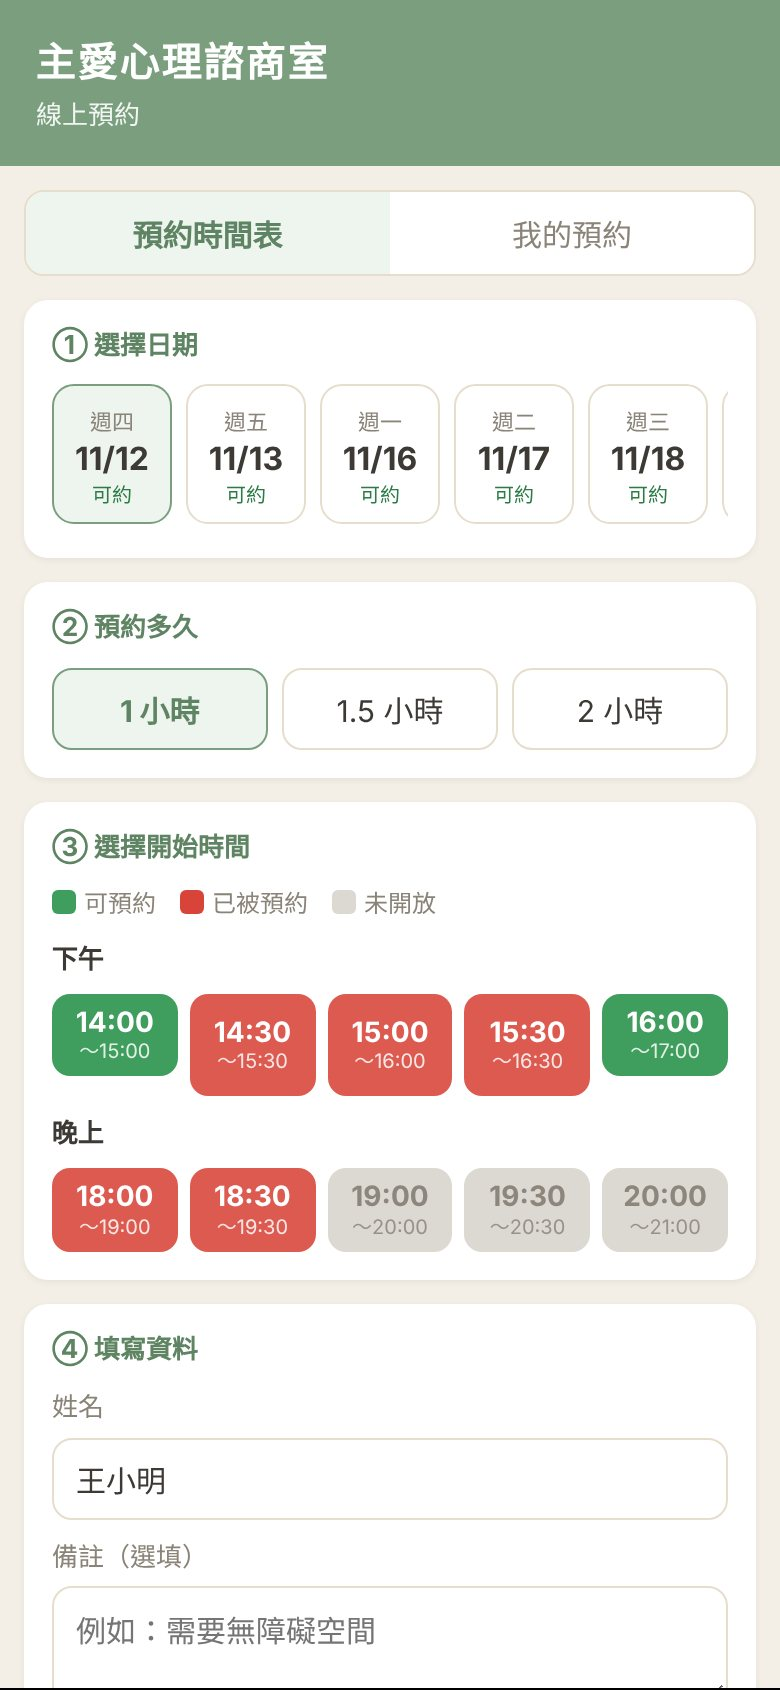
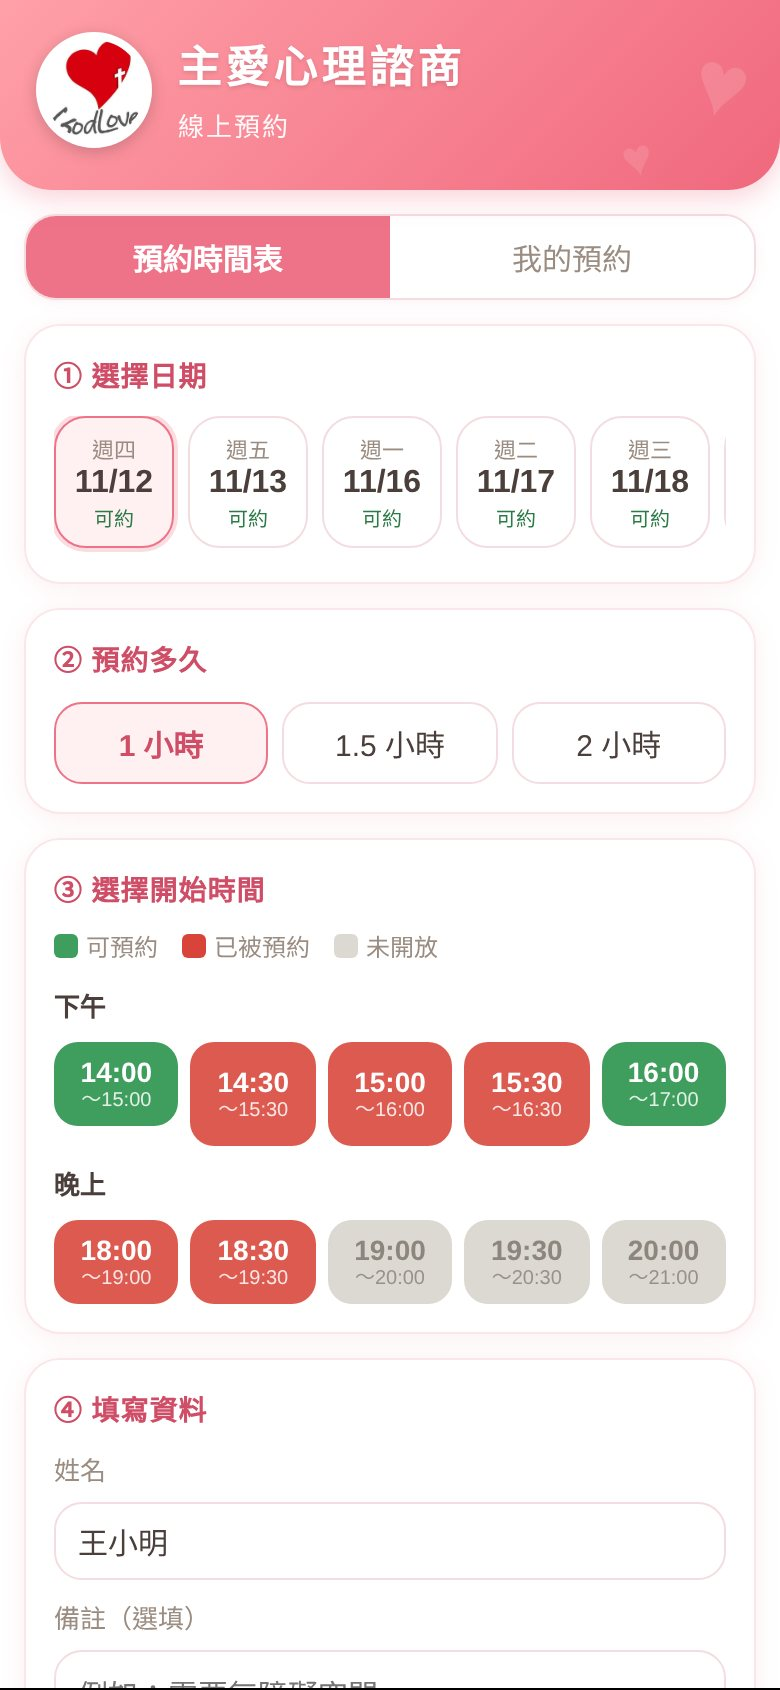
橫幅改粉桃紅、底色改白色，教學頁與截圖同步
Claude-Session: https://claude.ai/code/session_01TfDhadm69ti5PKJZoMiYxY

diff --git a/booking/index.html b/booking/index.html
@@ -202,7 +202,7 @@ label{display:block;font-size:13px;color:var(--mute);margin:10px 0 4px}
 .sheetbox{background:#fff;width:100%;max-width:480px;border-radius:16px 16px 0 0;padding:18px 16px 24px;box-shadow:0 -4px 20px rgba(0,0,0,.15)}
 .sheetbox h3{margin:0 0 4px}.sheetbox .opts{display:grid;grid-template-columns:1fr 1fr;gap:8px;margin:12px 0}
 .sheetbox .opts button{padding:12px 6px;border-radius:10px;border:2px solid var(--line);background:#fff;font-size:15px;font-weight:700}
-.sheetbox .opts button.on{border-color:var(--main);background:#eef5ef}
+.sheetbox .opts button.on{border-color:var(--main);background:#fff0f2}
 .sheetbox label.rd{display:flex;align-items:center;gap:8px;padding:6px 0;font-size:14px}
 .stats{display:grid;grid-template-columns:repeat(5,1fr);gap:6px;margin-bottom:12px}
 .stats div{background:#fff;border-radius:10px;padding:8px 4px;text-align:center;font-size:11px;color:var(--mute)}
@@ -221,25 +221,25 @@ header.top2 p{margin:3px 0 0;font-size:13px;opacity:.9}
 
 
 /* ===== 美化：粉圓字體、柔和暖色、診所 LOGO ===== */
-:root{--bg:#fdf6ec;--ink:#4a3f3a;--mute:#9a8c80;--line:#f0e2d0;--main:#6fa882;--main-d:#4a8560;--soft:#eaf5ec;--warn:#e0604f;--gold:#e8a93b;--heart:#e5584a}
-body{font-family:"Huninn","jf-openhuninn","PingFang TC","Noto Sans TC","Microsoft JhengHei",sans-serif;line-height:1.6;background:var(--bg) radial-gradient(circle at 12% 8%,rgba(255,226,214,.55),transparent 38%),radial-gradient(circle at 92% 30%,rgba(214,238,222,.6),transparent 34%) fixed}
+:root{--bg:#fff;--card:#fff;--ink:#4a3f3a;--mute:#9a8c80;--line:#f4dde0;--main:#ee7388;--main-d:#cf4d66;--soft:#fff0f2;--warn:#e0604f;--gold:#e8a93b;--heart:#e5584a}
+body{font-family:"Huninn","jf-openhuninn","PingFang TC","Noto Sans TC","Microsoft JhengHei",sans-serif;line-height:1.6}
 b,strong,h1,h2,h3,button,th{font-synthesis:weight}
-header.top2{display:flex;align-items:center;gap:13px;background:linear-gradient(135deg,#86bb97 0%,#5f9f78 100%);padding:calc(16px + env(safe-area-inset-top)) 18px 20px;border-radius:0 0 26px 26px;box-shadow:0 4px 14px rgba(95,159,120,.28);position:relative;overflow:hidden}
+header.top2{display:flex;align-items:center;gap:13px;background:linear-gradient(135deg,#ffa0a8 0%,#f0687d 100%);padding:calc(16px + env(safe-area-inset-top)) 18px 20px;border-radius:0 0 26px 26px;box-shadow:0 4px 14px rgba(240,104,125,.3);position:relative;overflow:hidden}
 header.top2::after{content:"♥";position:absolute;right:16px;top:6px;font-size:46px;color:rgba(255,255,255,.14);transform:rotate(14deg)}
 header.top2::before{content:"♥";position:absolute;right:64px;bottom:-6px;font-size:26px;color:rgba(255,255,255,.12);transform:rotate(-12deg)}
 header.top2 .logo{width:58px;height:58px;border-radius:50%;background:#fff;padding:4px;box-shadow:0 2px 8px rgba(0,0,0,.18);flex:none;object-fit:contain}
 header.top2 h1{font-size:22px;letter-spacing:2px;text-shadow:0 1px 2px rgba(0,0,0,.12)}
 header.top2 p{font-size:13px;letter-spacing:1px;opacity:.95}
-.card{border-radius:18px;box-shadow:0 2px 10px rgba(120,90,50,.08);border:1px solid rgba(240,226,208,.7)}
-.chip{border-radius:22px;padding:6px 14px;border-color:#f0e2d0}
+.card{border-radius:18px;box-shadow:0 2px 12px rgba(230,120,140,.12);border:1px solid #fbe6e9}
+.chip{border-radius:22px;padding:6px 14px;border-color:#f4dde0}
 .chip.on{background:var(--main);border-color:var(--main);color:#fff}
-.ltabs{border-radius:16px;border-color:#f0e2d0;box-shadow:0 1px 6px rgba(120,90,50,.06)}
+.ltabs{border-radius:16px;border-color:#f4dde0;box-shadow:0 1px 6px rgba(230,120,140,.1)}
 .ltabs button.on{background:var(--main);color:#fff}
-.date{border-radius:16px;border-color:#f0e2d0}
-.date.on{background:var(--soft);border-color:var(--main);box-shadow:0 0 0 2px rgba(111,168,130,.25)}
+.date{border-radius:16px;border-color:#f4dde0}
+.date.on{background:var(--soft);border-color:var(--main);box-shadow:0 0 0 2px rgba(238,115,136,.25)}
 .durs button,.radios button{border-radius:14px}
-.btn{border-radius:16px;box-shadow:0 3px 0 rgba(74,133,96,.45);padding:14px}
-.btn:active{transform:translateY(2px);box-shadow:0 1px 0 rgba(74,133,96,.45)}
+.btn{border-radius:16px;box-shadow:0 3px 0 rgba(207,77,102,.4);padding:14px}
+.btn:active{transform:translateY(2px);box-shadow:0 1px 0 rgba(207,77,102,.4)}
 .btn.ghost{box-shadow:none}
 .sl{border-radius:12px}
 .bk2{border-radius:14px}

diff --git a/booking/guide.html b/booking/guide.html
@@ -10,15 +10,15 @@
 <link rel="preconnect" href="https://fonts.gstatic.com" crossorigin>
 <link href="https://fonts.googleapis.com/css2?family=Huninn&display=swap" rel="stylesheet">
 <style>
-:root{--bg:#fdf6ec;--card:#fff;--ink:#3d3a35;--mute:#8a8378;--line:#e6ddcd;--main:#7a9e7e;--main-d:#5f8463;--soft:#eef4ee;--warn:#c96f5b;--gold:#c9952e;--ok:#3f9d5d;--busy:#d9443a;--no:#dcd8d2}
+:root{--bg:#fff;--card:#fff;--ink:#3d3a35;--mute:#8a8378;--line:#f4dde0;--main:#ee7388;--main-d:#cf4d66;--soft:#fff0f2;--warn:#c96f5b;--gold:#c9952e;--ok:#3f9d5d;--busy:#d9443a;--no:#dcd8d2}
 *{box-sizing:border-box}
 body{margin:0;background:var(--bg);color:var(--ink);font-family:"Huninn","PingFang TC","Noto Sans TC","Microsoft JhengHei",sans-serif;line-height:1.75;font-size:16px}
-header{background:linear-gradient(135deg,#86bb97,#5f9f78);color:#fff;padding:24px 18px 26px;text-align:center;border-radius:0 0 28px 28px;box-shadow:0 4px 14px rgba(95,159,120,.28)}
+header{background:linear-gradient(135deg,#ffa0a8,#f0687d);color:#fff;padding:24px 18px 26px;text-align:center;border-radius:0 0 28px 28px;box-shadow:0 4px 14px rgba(240,104,125,.3)}
 header .logo{width:72px;height:72px;border-radius:50%;background:#fff;padding:5px;box-shadow:0 2px 8px rgba(0,0,0,.18);margin-bottom:8px;object-fit:contain}
 header h1{margin:0 0 6px;font-size:22px;letter-spacing:1px}
 header p{margin:0;opacity:.92;font-size:14px}
 main{max-width:560px;margin:0 auto;padding:14px 14px 60px}
-.card{background:var(--card);border-radius:18px;padding:18px 16px;margin:14px 0;box-shadow:0 1px 4px rgba(0,0,0,.05)}
+.card{background:var(--card);border-radius:18px;padding:18px 16px;margin:14px 0;box-shadow:0 2px 12px rgba(230,120,140,.12);border:1px solid #fbe6e9}
 .card h2{margin:0 0 10px;font-size:18px;display:flex;align-items:center;gap:10px}
 .n{flex:none;width:30px;height:30px;border-radius:50%;background:var(--main);color:#fff;display:inline-flex;align-items:center;justify-content:center;font-size:16px;font-weight:700}
 .card p{margin:8px 0}
